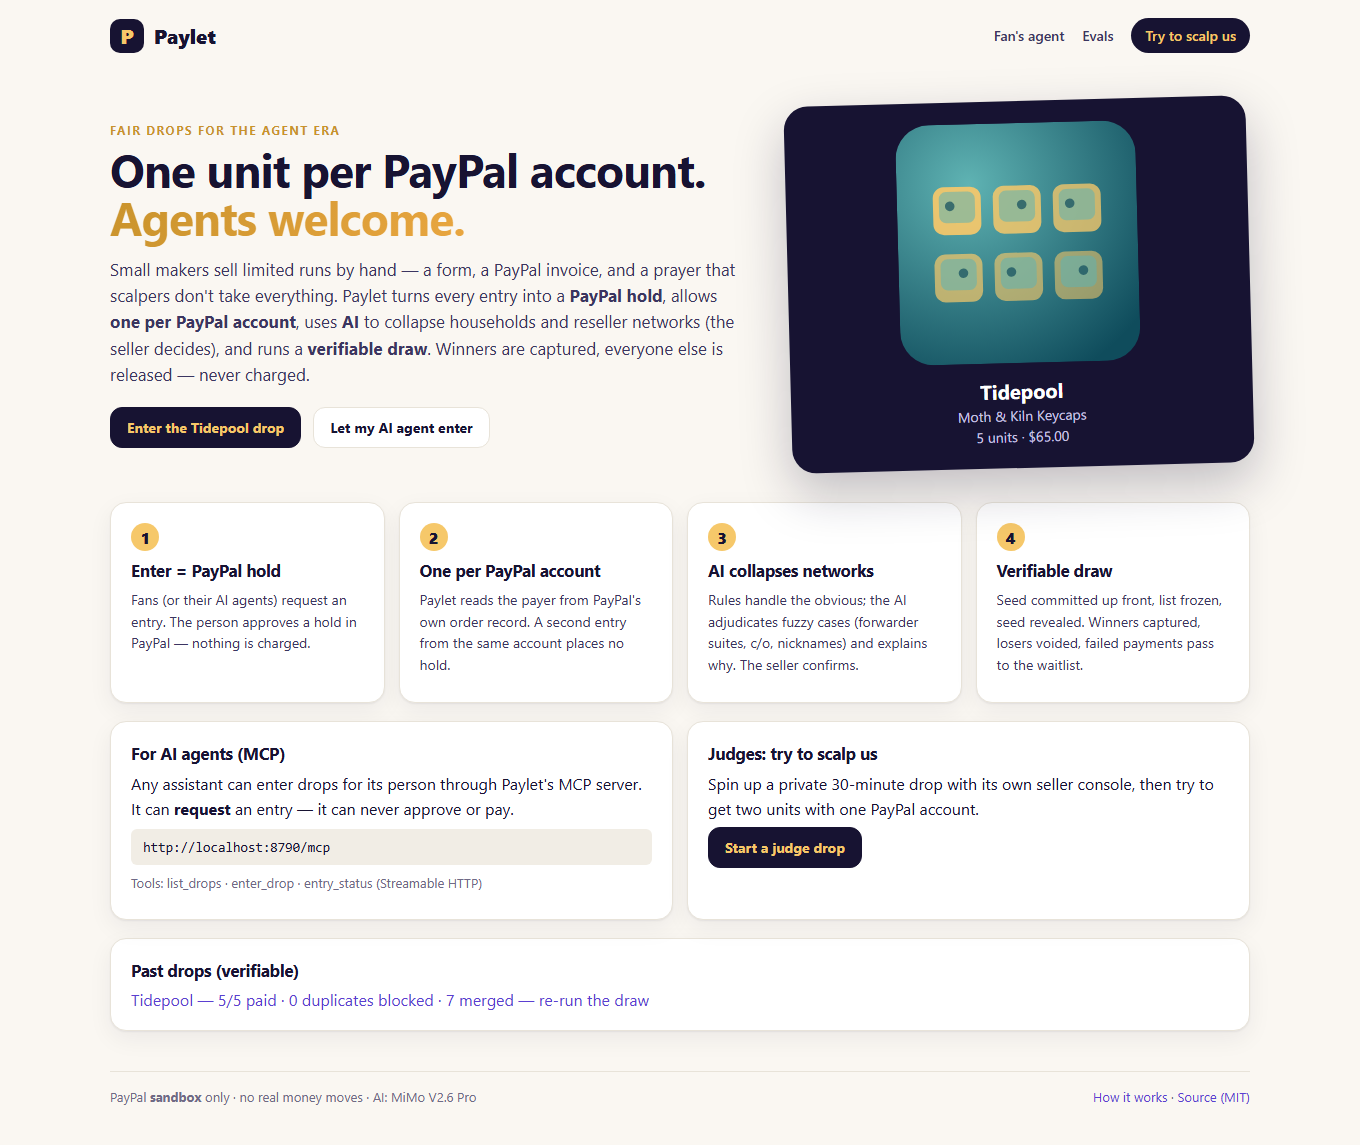
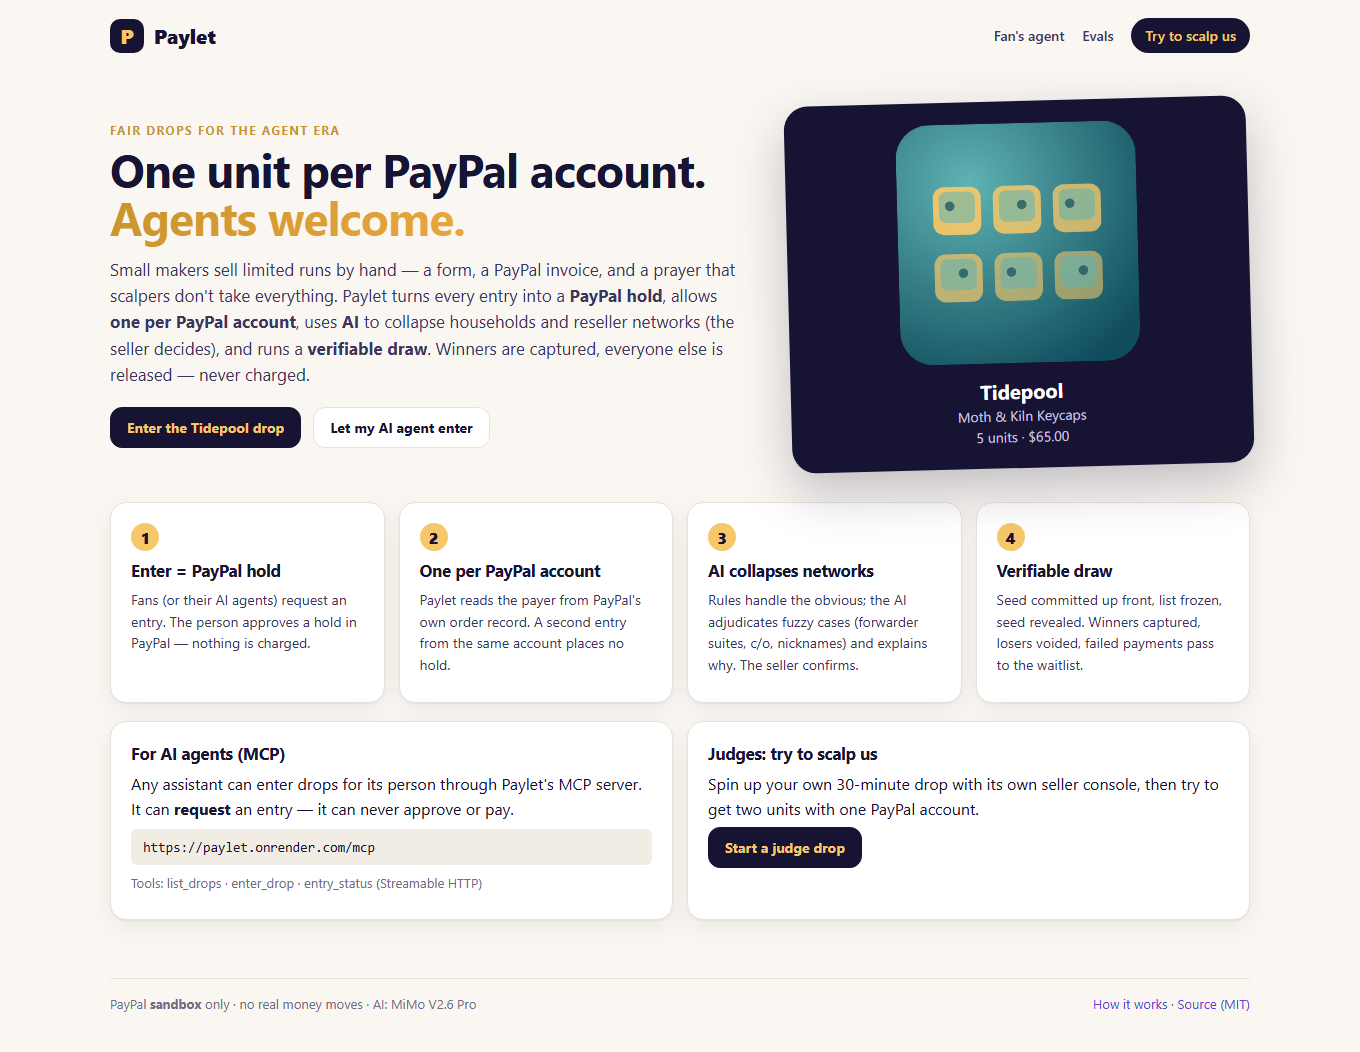
Fix agent page crash: scrollIntoView returns a Promise in new browsers

diff --git a/scripts/gallery.ts b/scripts/gallery.ts
@@ -1,0 +1,46 @@
+// Populates a fresh judge drop on a live instance and captures gallery screenshots (docs/img).
+import { chromium } from "@playwright/test";
+
+const base = process.argv[2] ?? "https://paylet.onrender.com";
+const out = process.argv[3] ?? "docs/img";
+const post = (p: string, key?: string, data?: unknown) =>
+  fetch(base + p, { method: "POST", headers: { "content-type": "application/json", ...(key ? { "x-seller-key": key } : {}) }, body: JSON.stringify(data ?? {}) }).then((r) => r.json());
+
+const { slug, sellerKey } = await post("/api/judge-drop");
+await post(`/api/seller/${slug}/swarm`, sellerKey, { n: 4 });
+await post(`/api/seller/${slug}/simulate`, sellerKey);
+await new Promise((r) => setTimeout(r, 6000));
+await post(`/api/seller/${slug}/analyze`, sellerKey);
+
+const browser = await chromium.launch();
+const page = await browser.newPage({ viewport: { width: 1360, height: 900 } });
+const snap = async (name: string, path: string, wait = 2500, full = true) => {
+  await page.goto(base + path, { waitUntil: "networkidle" });
+  await page.waitForTimeout(wait);
+  await page.screenshot({ path: `${out}/${name}.png`, fullPage: full });
+  console.log("shot", name);
+};
+await snap("home", "/");
+await snap("seller", `/seller/${slug}?k=${sellerKey}`, 3500);
+// agent conversation
+await page.goto(`${base}/agent?drop=${slug}`, { waitUntil: "networkidle" });
+await page.getByRole("button", { name: "Send" }).click();
+await page.getByText(/Your agent stopped here/).waitFor({ timeout: 120_000 }).catch(async (e) => { await page.screenshot({ path: "../shots/agent-fail.png", fullPage: true }); throw e; });
+await page.waitForTimeout(800);
+await page.screenshot({ path: `${out}/agent.png`, fullPage: true });
+console.log("shot agent");
+await snap("drop", `/d/${slug}`);
+// confirm clusters, draw, verify
+const s = await (await fetch(`${base}/api/seller/${slug}`, { headers: { "x-seller-key": sellerKey } })).json();
+for (const c of s.clusters) await post(`/api/seller/${slug}/clusters/${c.id}`, sellerKey, { decision: "confirmed" });
+await post(`/api/seller/${slug}/draw`, sellerKey);
+await new Promise((r) => setTimeout(r, 8000));
+await snap("settled", `/seller/${slug}?k=${sellerKey}`, 3000);
+await page.goto(`${base}/verify/${slug}`, { waitUntil: "networkidle" });
+await page.getByRole("button", { name: /Re-run the draw/ }).click();
+await page.waitForTimeout(1500);
+await page.screenshot({ path: `${out}/verify.png`, fullPage: true });
+console.log("shot verify");
+await snap("evals", "/evals");
+await snap("how", "/how");
+await browser.close();

diff --git a/src/web/pages/misc.tsx b/src/web/pages/misc.tsx
@@ -24,7 +24,10 @@ export function AgentPage() {
   });
   const [busy, setBusy] = useState(false);
   const end = useRef<HTMLDivElement>(null);
-  useEffect(() => end.current?.scrollIntoView({ behavior: "smooth" }), [turns.length]);
+  useEffect(() => {
+    // braces matter: newer browsers return a Promise from scrollIntoView, which React would treat as a cleanup
+    end.current?.scrollIntoView({ behavior: "smooth" });
+  }, [turns.length]);
 
   const send = async () => {
     if (!input.trim() || busy) return;
